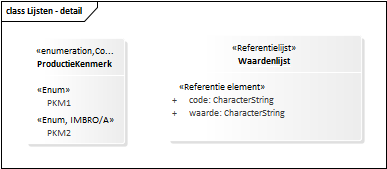
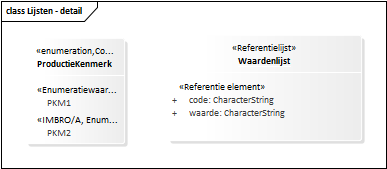
Conceptualmodel-SampleBase-1.0.0-2-20130318-20190103-150919

Changed region(s): [[0.093, 0.6805, 0.3101, 0.7396], [0.155, 0.503, 0.3101, 0.5621]]

diff --git a/data/SAMPLE-cat.html b/data/SAMPLE-cat.html
@@ -1,10 +1,10 @@
 <h2>Catalogus</h2>
 <p class="note" title="Over deze catalogus">
    Deze catalogus is automatisch samengesteld op basis van het UML model 
-   "SampleBase" door Imvertor 1.50.1 op January 3, 2019 at 14:05:08.
+   "SampleBase" door Imvertor 1.50.1 op January 3, 2019 at 14:09:18.
    <br>
    Wanneer je technische fouten of onvolkomenheden aantreft, geef dit dan door aan <i></i> en geef de code 
-   <i>"Conceptualmodel-SampleBase-1.0.0-2-20130318-20190103-150510"</i> door. 
+   <i>"Conceptualmodel-SampleBase-1.0.0-2-20130318-20190103-150919"</i> door. 
    
 </p>
 <div class="imageinfo overview"><img src="data/Images/EAID_08513AA0_8A50_46c1_AD86_9B80D9A6AAE1.png" usemap="#imagemap-EAID_08513AA0_8A50_46c1_AD86_9B80D9A6AAE1"><map name="imagemap-EAID_08513AA0_8A50_46c1_AD86_9B80D9A6AAE1">
@@ -3100,7 +3100,7 @@
                <td><br>                        PKM1<br>                     
                </td>
                <td>PKM1</td>
-               <td></td>
+               <td>Dit is de definitie van PKM1.</td>
             </tr>
             <tr>
                <td><br>                        PKM2<br>                     
